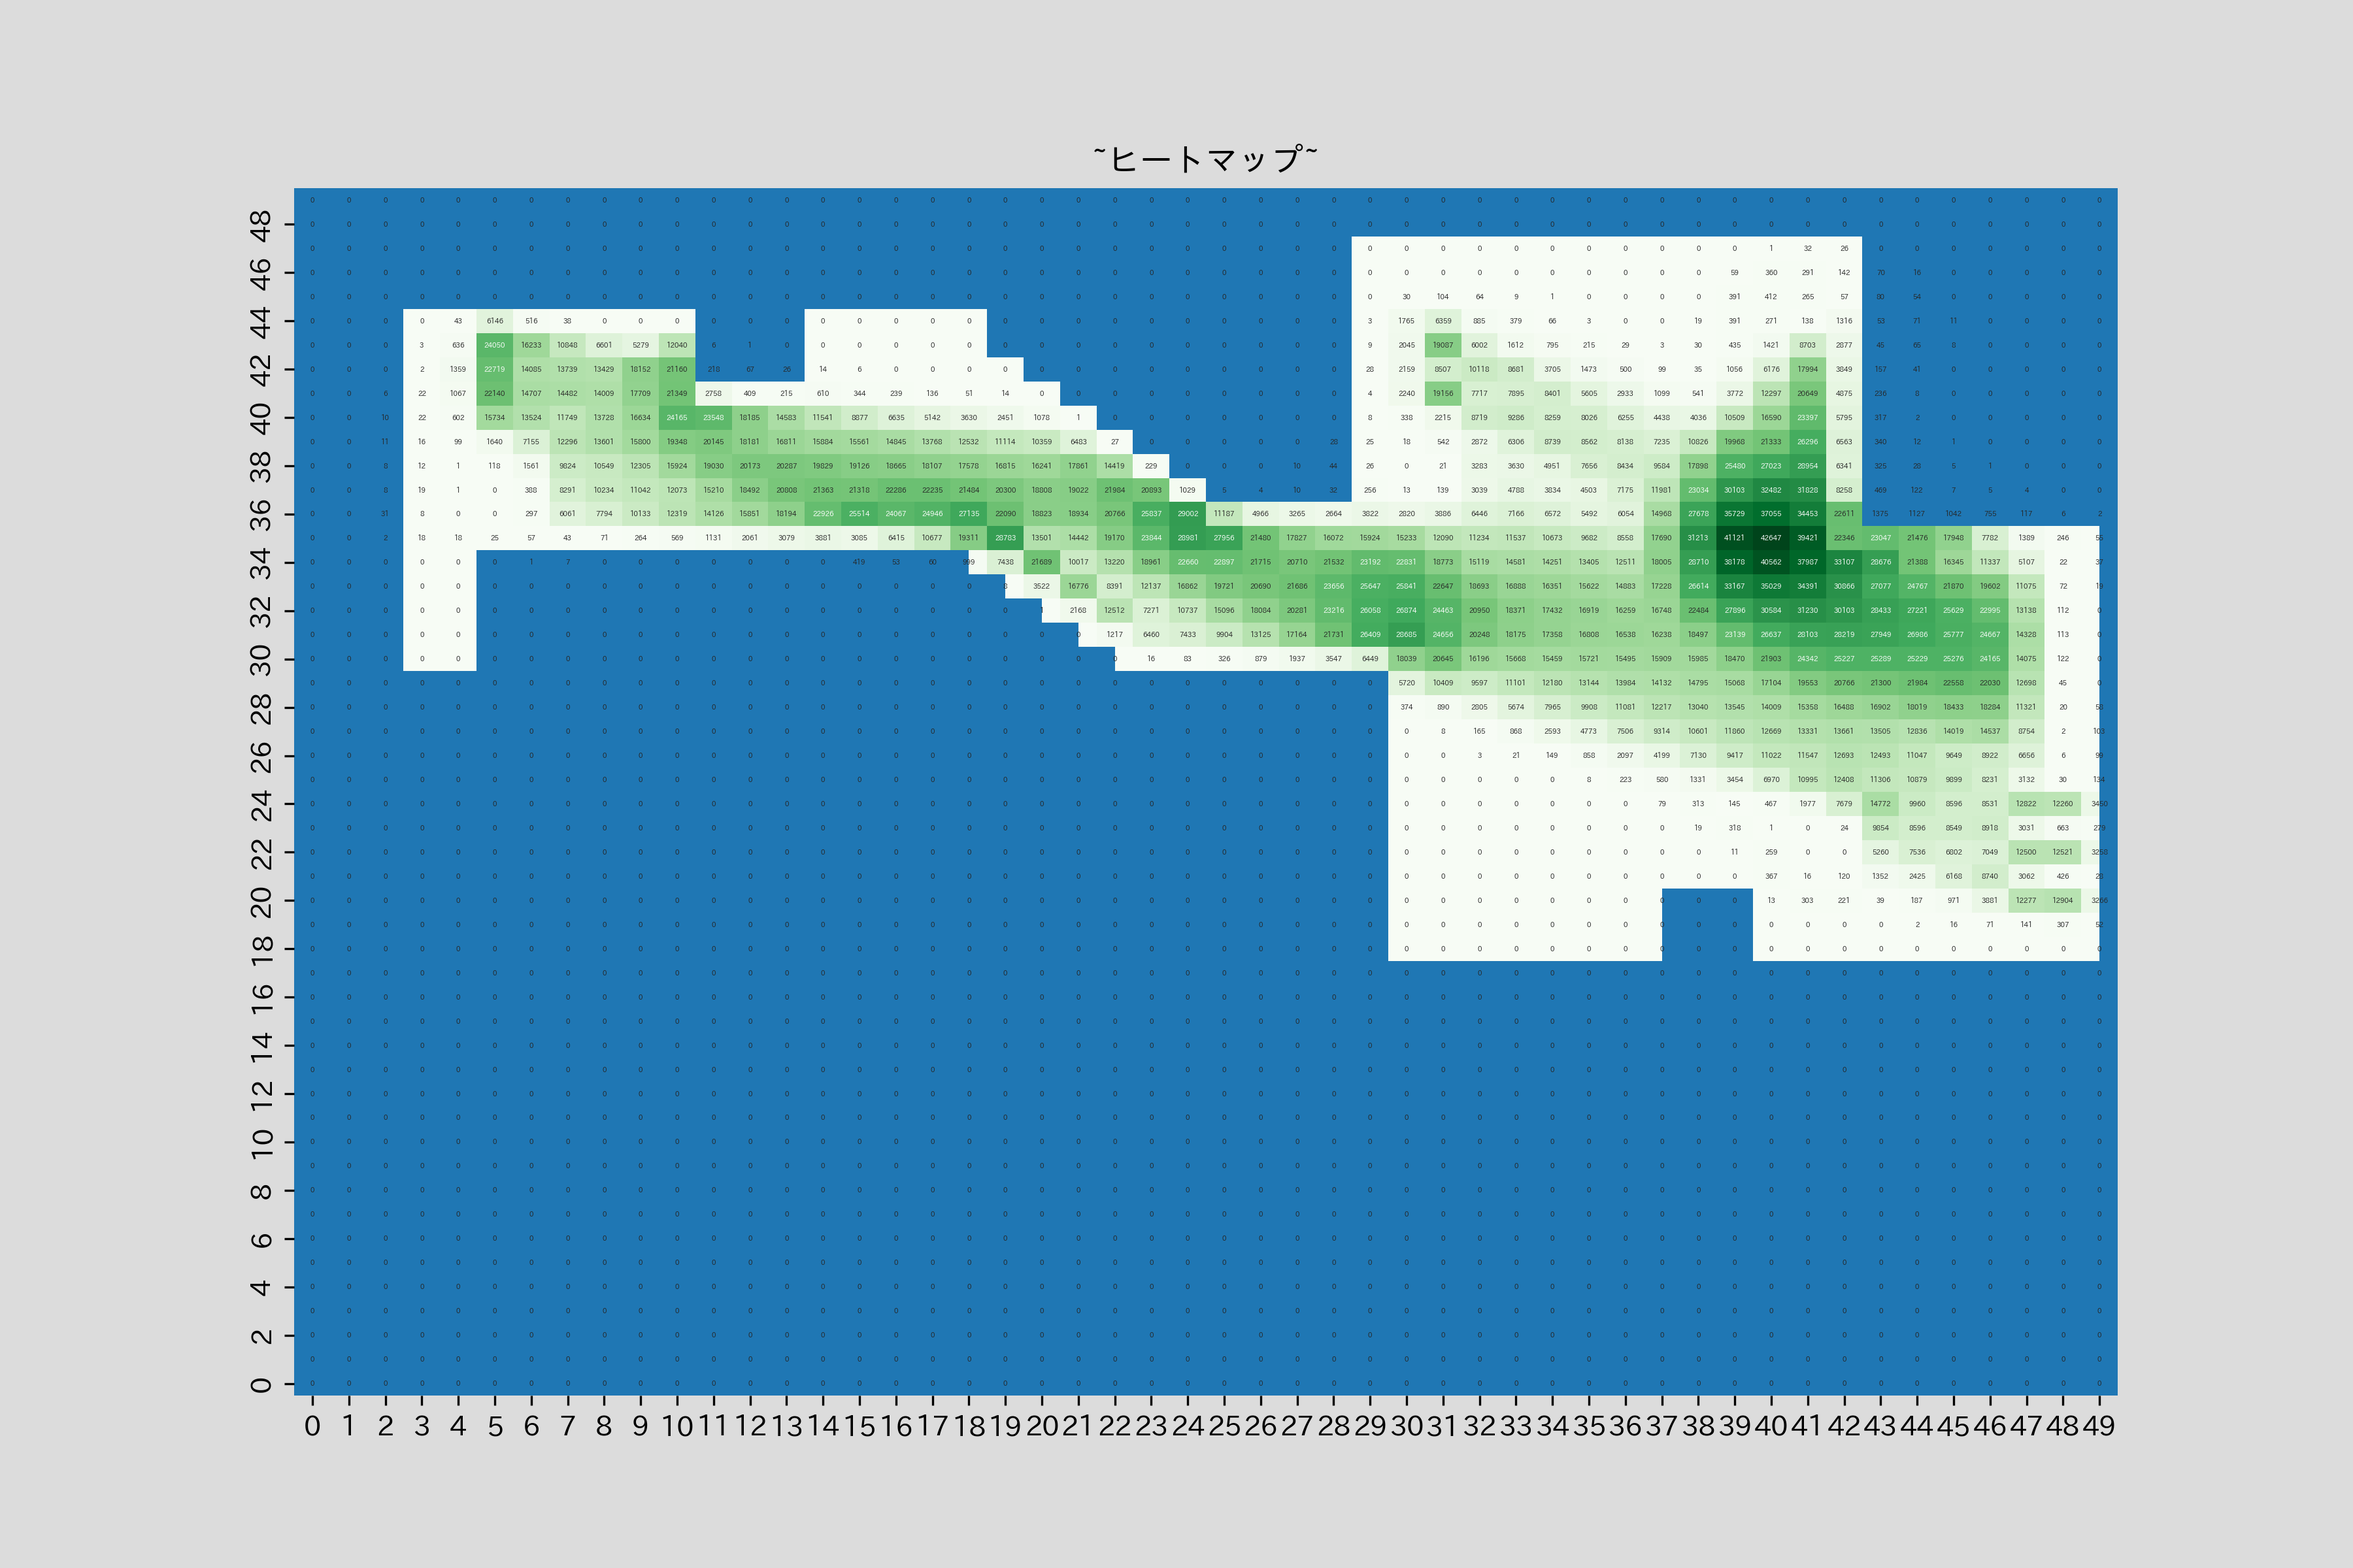
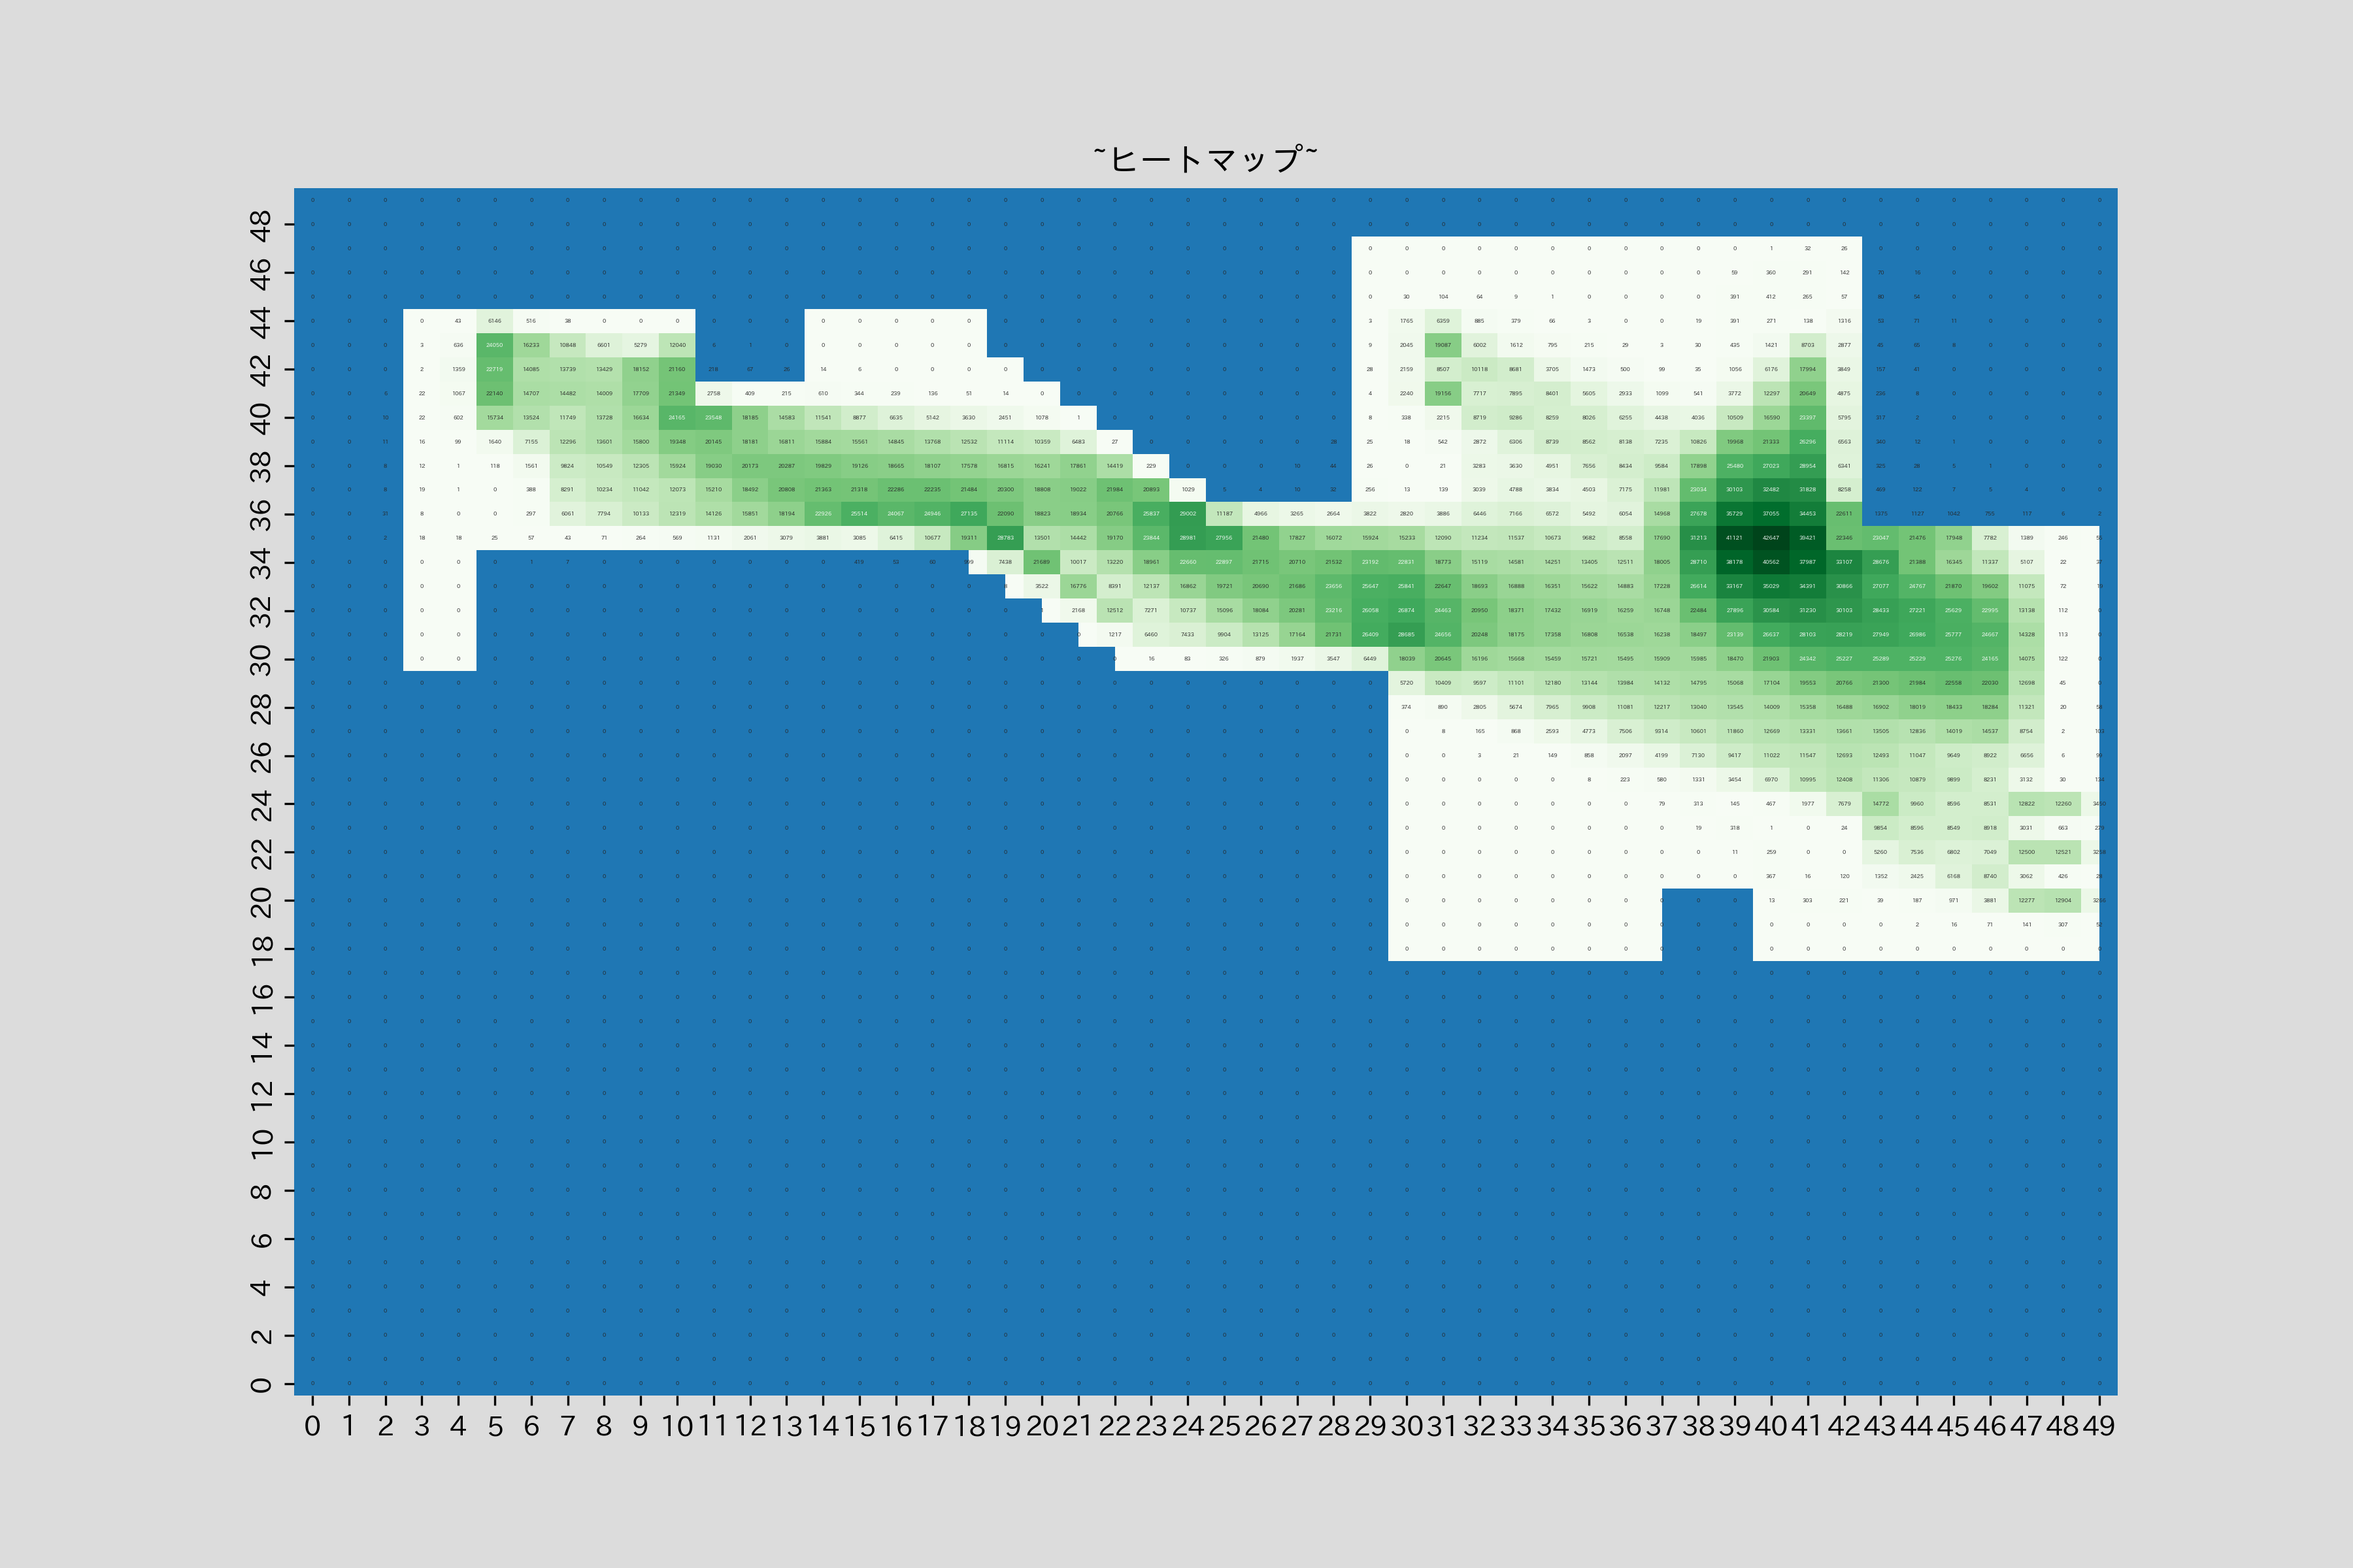
aw16フォントサイズ再修正

diff --git a/gap_morning.py b/gap_morning.py
@@ -20,7 +20,7 @@ def HeatmappingNumber(now_agents_positions, walls, fig_name):
     ax2.set_ylim(0, 500)
 
     ax2.set_title("~ヒートマップ~")
-    ax2 = sns.heatmap(now_agents_positions, cmap='Greens',cbar=False, annot=True, fmt='d', annot_kws={'fontsize':2.5})
+    ax2 = sns.heatmap(now_agents_positions, cmap='Greens',cbar=False, annot=True, fmt='d', annot_kws={'fontsize':2})
     for wall in walls:
             ax2.add_patch(Rectangle((wall[0]/10, wall[1]/10), (wall[2]-wall[0])/10, (wall[3]-wall[1])/10))
     ax2.invert_yaxis()
